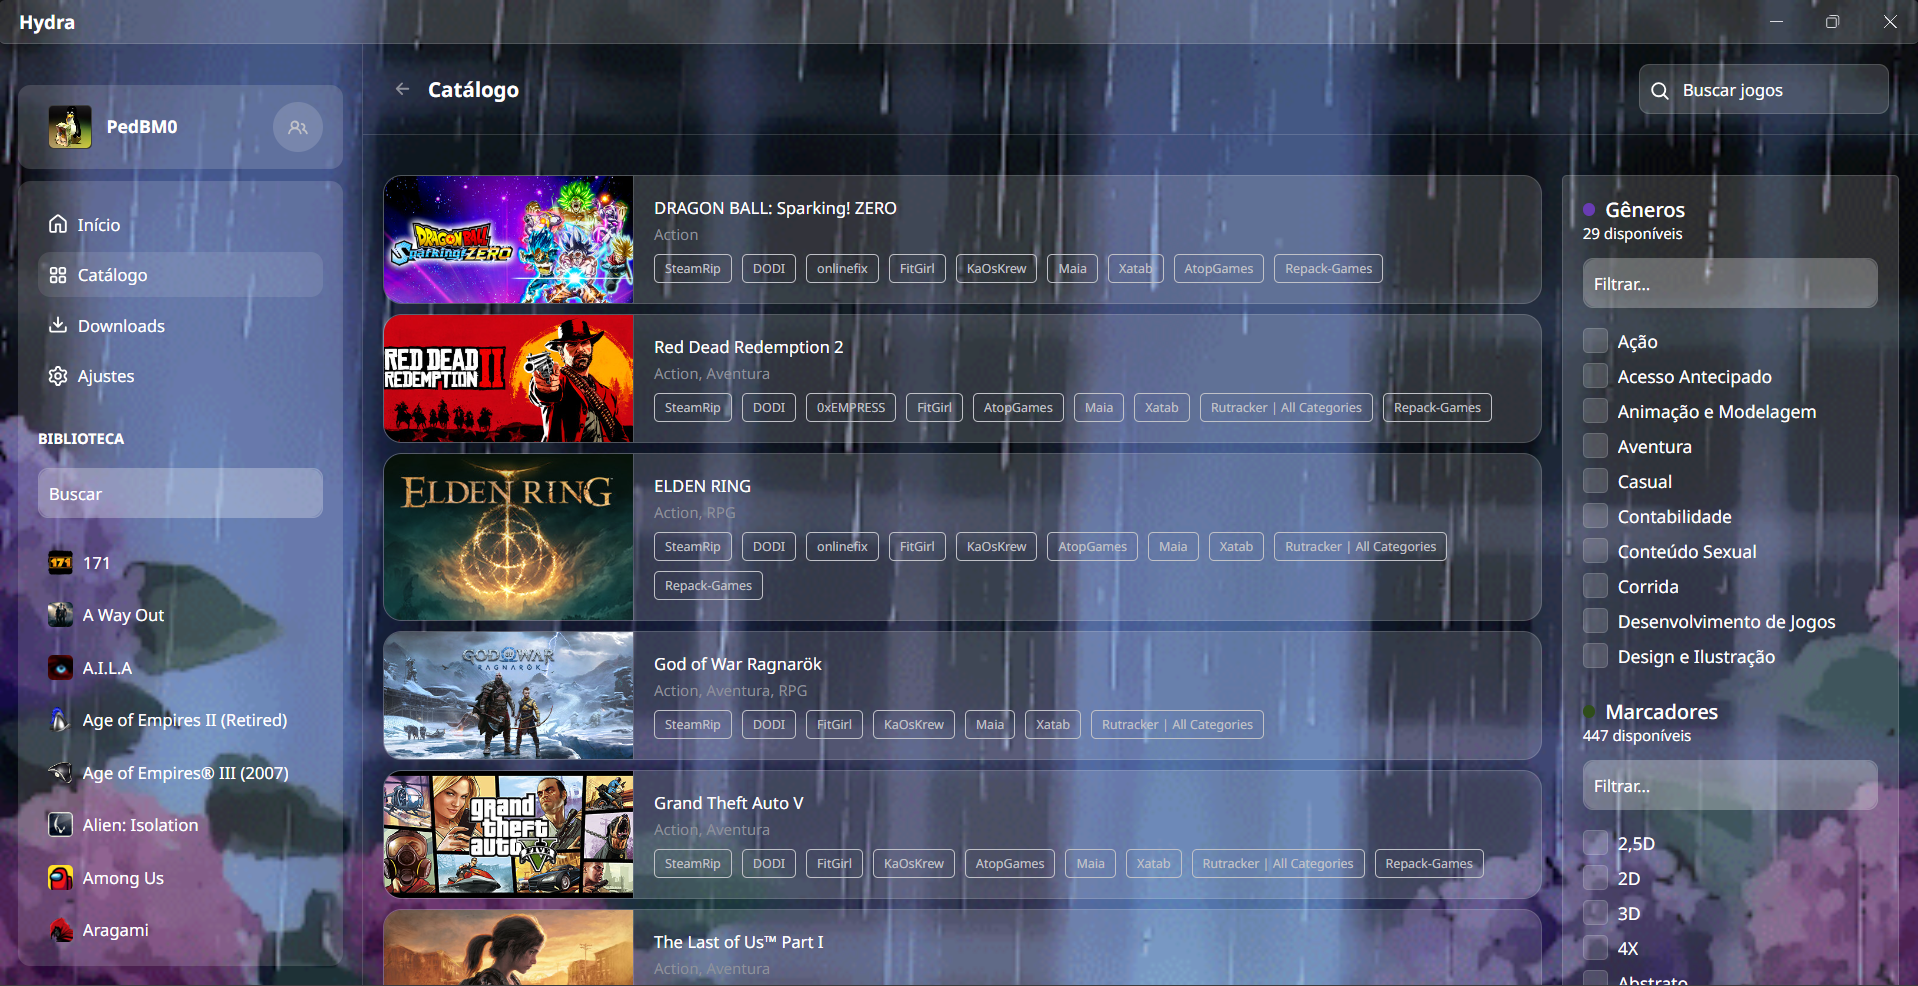
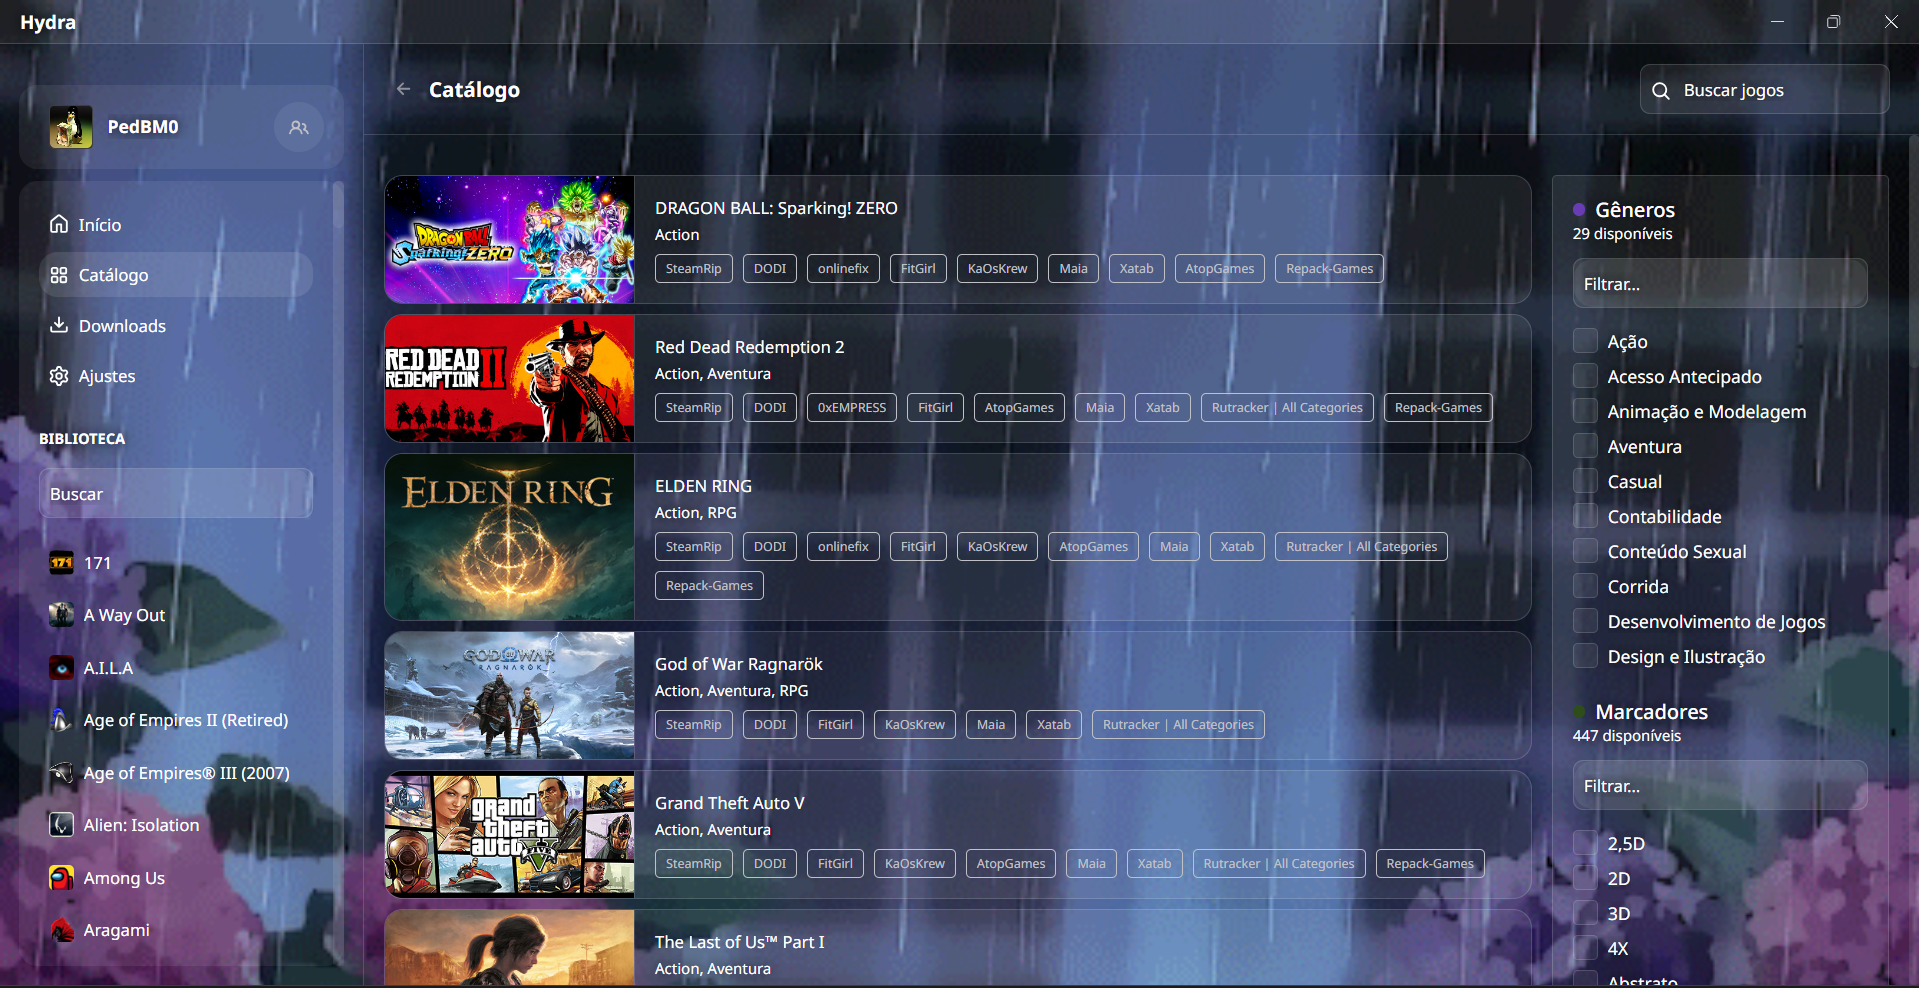
RainyDay changes

diff --git a/themes/RainyDay-75BbwEa5/theme.css b/themes/RainyDay-75BbwEa5/theme.css
@@ -8,11 +8,10 @@
 
 .title-bar{
   font-size: 15px;
-  border-radius: 5px;
 }
 
 #root{
-  background-image: url(https://giffiles.alphacoders.com/219/219230.gif);
+  background-image: url(assets/background.gif);
   background-repeat: no-repeat;
   background-size: cover;
 }
@@ -24,17 +23,6 @@
 .sidebar__content,
 .sidebar-profile{
   margin-top: 10px;
-}
-
-.sidebar__menu li,
-.sidebar-profile__button,
-.sidebar__content,
-.sidebar-profile,
-.text-field-container__text-field--primary,
-.text-field-container__text-field-input,
-.sidebar-section__button,
-.description-header{
-  border-radius: 10px;
 }
 
 .text-field-container__text-field-input,
@@ -62,8 +50,11 @@
 .game-details__description,
 .list li,
 .sidebar-section__button,
-.description-header{
-  background-color: rgba(255, 255, 255, 0.150);
+.description-heade,
+::-webkit-scrollbar,
+.achievement-panel,
+.achievements__list{
+  background-color: rgba(255, 255, 255, 0.100);
 }
 
 .text-field-container__text-field-input::placeholder,
@@ -89,8 +80,18 @@
 .button--outline,
 .theme-card,
 .game-details__description-content,
-.sidebar-section__button{
+.sidebar-section__button,
+.theme-card__header__title,
+.theme-card__author,
+.bb_ul,
+.requirement__details,
+.stats__category,
+.list__item,
+.achievement-panel,
+.achievements__item,
+.game-item__genres{
   color: white;
+  text-shadow: 0px 0px 10px black;
 }
 
 .hero,
@@ -103,12 +104,15 @@
 .game-details__description,
 .bb_img,
 .list li,
-.modal--large{
-  border-radius: 15px;
-}
-
+.modal--large,
+.sidebar__menu li,
+.sidebar-profile__button,
+.sidebar__content,
+.sidebar-profile,
+.text-field-container__text-field--primary,
+.text-field-container__text-field-input,
+.sidebar-section__button,
+.description-header,
 ::-webkit-scrollbar {
-    width: 0;  
-    height: 0; 
-    background: transparent;
+  border-radius: 15px;
 }
